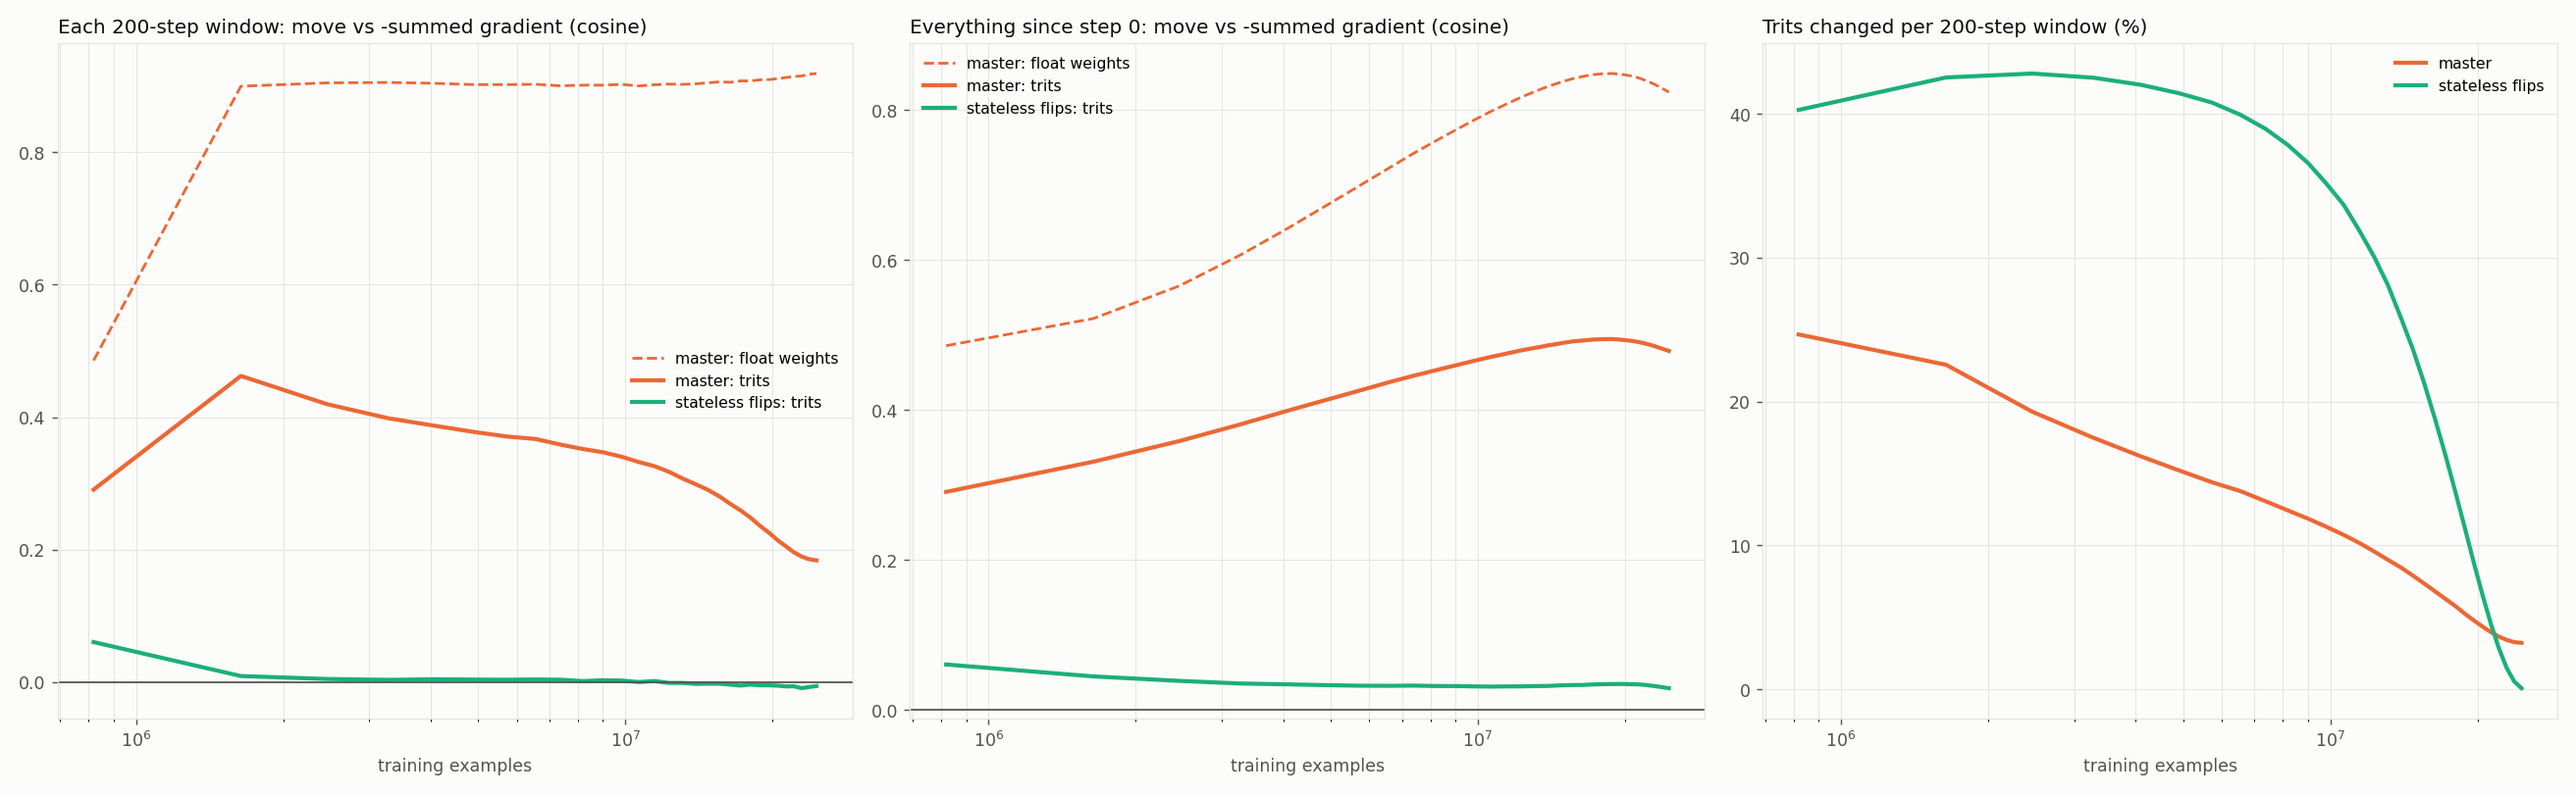
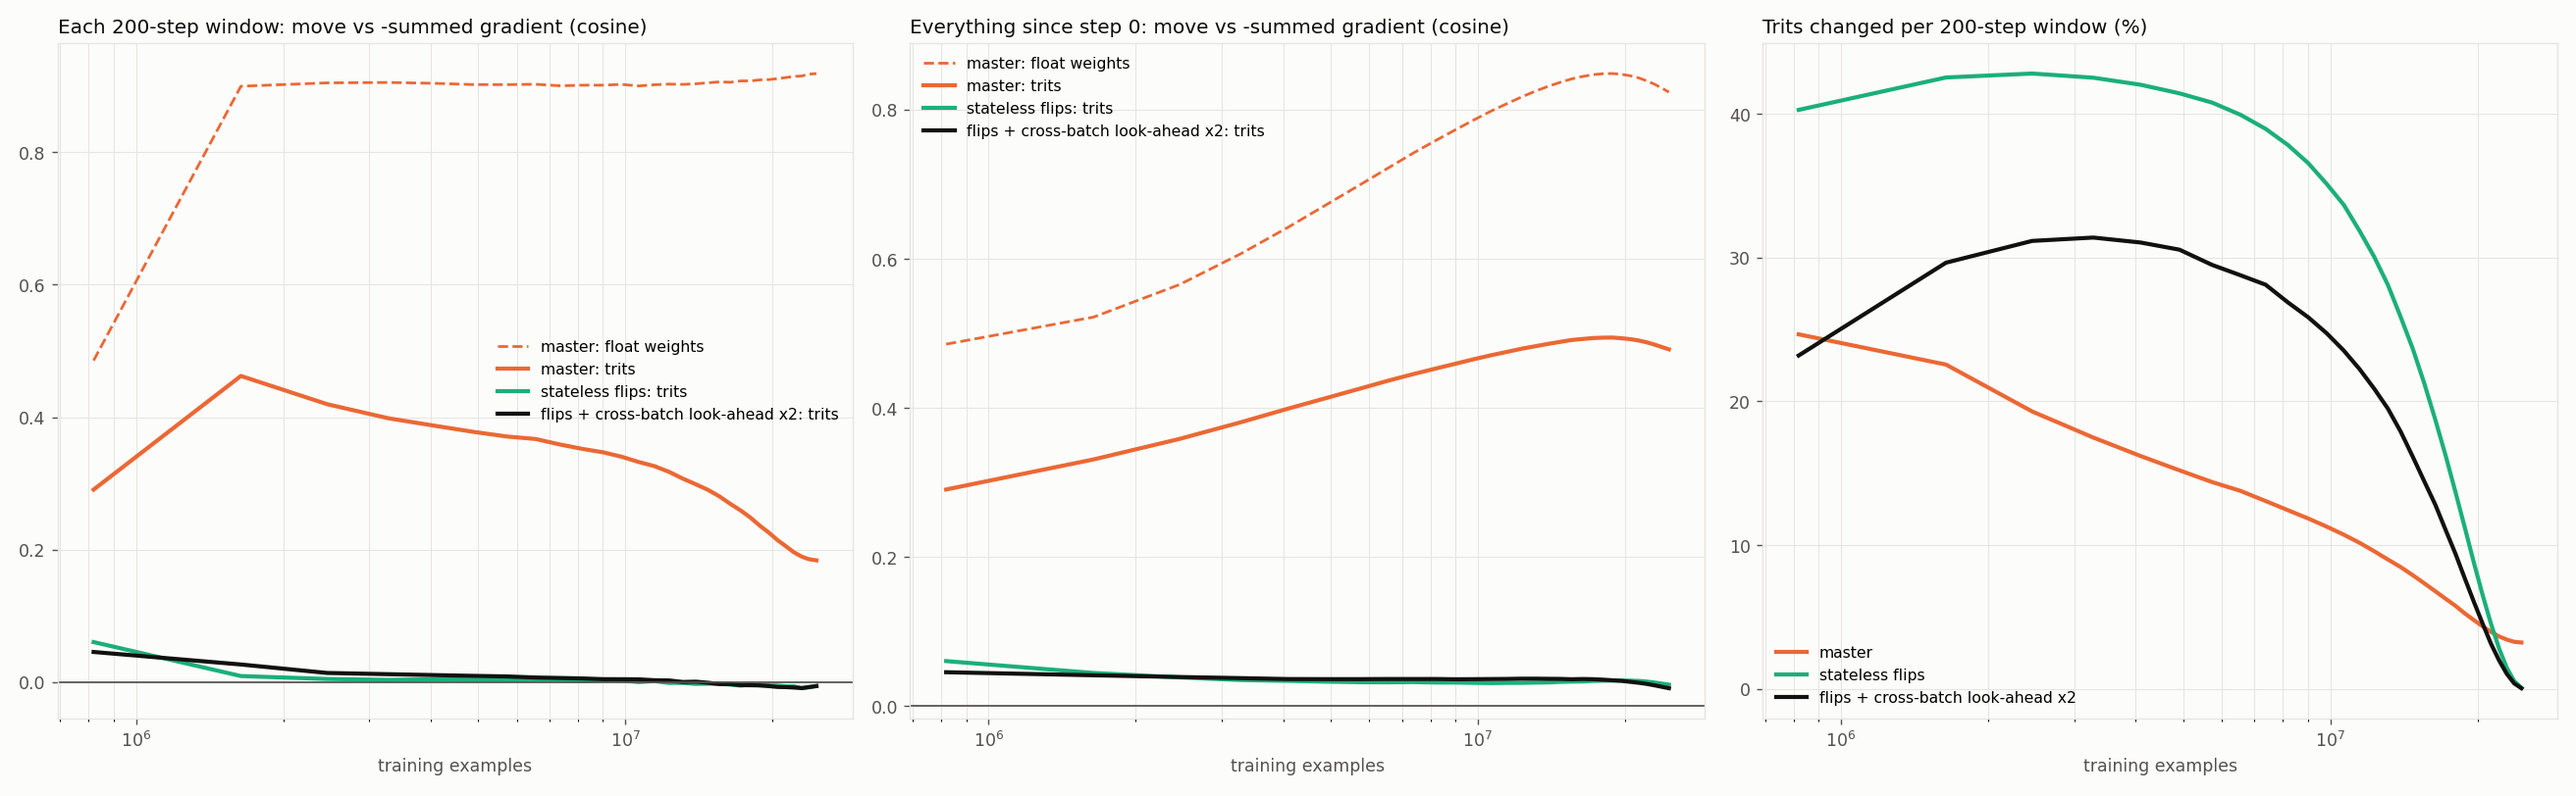
Geometry with look-ahead: fewer trits touched, still no accumulation across steps

diff --git a/scripts/mlp/geometry.py b/scripts/mlp/geometry.py
@@ -10,7 +10,7 @@ gradient vector"). Trit changes are in trit units; cosines are scale-free within
 
   python -m scripts.mlp.geometry
 """
-import math, numpy as np, torch, torch.nn.functional as F
+import math, os, numpy as np, torch, torch.nn.functional as F
 from bitnet.master import MasterTernaryLinear
 from bitnet.flip import KernelTernaryLinear, set_flip_rate
 from bitnet.kernel import unpack_rows
@@ -46,6 +46,7 @@ def run(mode):
         lr=LR, betas=(0.9, 0.95))
     Ls = [l for l in m.modules() if isinstance(l, (MasterTernaryLinear, KernelTernaryLinear))]
     gen = torch.Generator().manual_seed(1234)
+    gla = torch.Generator().manual_seed(4242)
 
     def trits():
         if mode == "master":
@@ -72,6 +73,13 @@ def run(mode):
             upd = [l.weight.detach().float() - a for l, a in zip(Ls, w0)] if record else None
             return gr, upd
         gr = None
+        if mode == "xb2":
+            from bitnet.train import lookahead_step
+            gr = [l.gw.float().clone() for l in Ls]
+            lookahead_step(m, x, y, [p for p in m.parameters() if p.requires_grad], dev, s, 2, 0,
+                           lambda: windows(train, BATCH, 8, gla, dev))
+            torch.nn.utils.clip_grad_norm_([p for p in m.parameters() if p.requires_grad], 1.0); opt.step()
+            return gr, None
         if record:
             from bitnet.kernel import fused_flip
             gr = [l.gw.float().clone() for l in Ls]
@@ -108,11 +116,13 @@ def run(mode):
     return out
 
 
-import json
-res = {}
-for mode in ("master", "flip"):
+import json, sys
+modes = sys.argv[1:] or ["master", "flip"]
+path = "checkpoints/mlp/geometry_full.json"
+res = json.load(open(path)) if os.path.exists(path) else {}
+for mode in modes:
     res[mode] = run(mode)
     print(f"\n=== {mode}: alignment with the summed gradient along the run ===")
     for r in res[mode]:
         print("  " + " | ".join(f"{k} {v:.3f}" if isinstance(v, float) else f"{k} {v}" for k, v in r.items()))
-json.dump(res, open("checkpoints/mlp/geometry_full.json", "w"))
+    json.dump(res, open(path, "w"))

diff --git a/scripts/plots/plot_geometry.py b/scripts/plots/plot_geometry.py
@@ -18,15 +18,19 @@ a = ap.parse_args()
 R = json.load(open("checkpoints/mlp/geometry_full.json"))
 fig, (ax1, ax2, ax3) = plt.subplots(1, 3, figsize=(21, 6.5), facecolor=SURFACE)
 ex = lambda rows: np.array([r["step"] for r in rows]) * 4096
-m, f = R["master"], R.get("flip", [])
+m, f, x2 = R["master"], R.get("flip", []), R.get("xb2", [])
+XB = "#111111"
 ax1.plot(ex(m), [r["win_latent"] for r in m], color=MASTER, lw=1.6, ls="--", label="master: float weights")
 ax1.plot(ex(m), [r["win_trit"] for r in m], color=MASTER, lw=2.4, label="master: trits")
 if f: ax1.plot(ex(f), [r["win_trit"] for r in f], color=FLIP, lw=2.4, label="stateless flips: trits")
+if x2: ax1.plot(ex(x2), [r["win_trit"] for r in x2], color=XB, lw=2.4, label="flips + cross-batch look-ahead x2: trits")
 ax2.plot(ex(m), [r["cum_latent"] for r in m], color=MASTER, lw=1.6, ls="--", label="master: float weights")
 ax2.plot(ex(m), [r["cum_trit"] for r in m], color=MASTER, lw=2.4, label="master: trits")
 if f: ax2.plot(ex(f), [r["cum_trit"] for r in f], color=FLIP, lw=2.4, label="stateless flips: trits")
+if x2: ax2.plot(ex(x2), [r["cum_trit"] for r in x2], color=XB, lw=2.4, label="flips + cross-batch look-ahead x2: trits")
 ax3.plot(ex(m), [r["win_changed_%"] for r in m], color=MASTER, lw=2.4, label="master")
 if f: ax3.plot(ex(f), [r["win_changed_%"] for r in f], color=FLIP, lw=2.4, label="stateless flips")
+if x2: ax3.plot(ex(x2), [r["win_changed_%"] for r in x2], color=XB, lw=2.4, label="flips + cross-batch look-ahead x2")
 titles = ("Each 200-step window: move vs -summed gradient (cosine)",
           "Everything since step 0: move vs -summed gradient (cosine)",
           "Trits changed per 200-step window (%)")

diff --git a/docs/RUNS.md b/docs/RUNS.md
@@ -939,3 +939,8 @@ Master's float weights move along each window's summed gradient at ~0.90 for the
 and its trits keep ~0.48 of the cumulative direction. The flips' 200-step moves have zero
 alignment with the summed gradient from 1.6M examples on, while changing 30-42% of all trits
 per window: a random walk, which only stops when the annealed rate stops it.
+
+With cross-batch look-ahead x2 (same test): window alignment 0.046 at 0.8M, 0.011 at 4M,
+~0 from ~8M on, cumulative 0.024-0.037; trits changed per window 23-31% (vs 30-42% for plain
+flips). Look-ahead touches fewer trits but its moves do not add up either: it removes
+harmful combinations within a step, not the random walk across steps.
